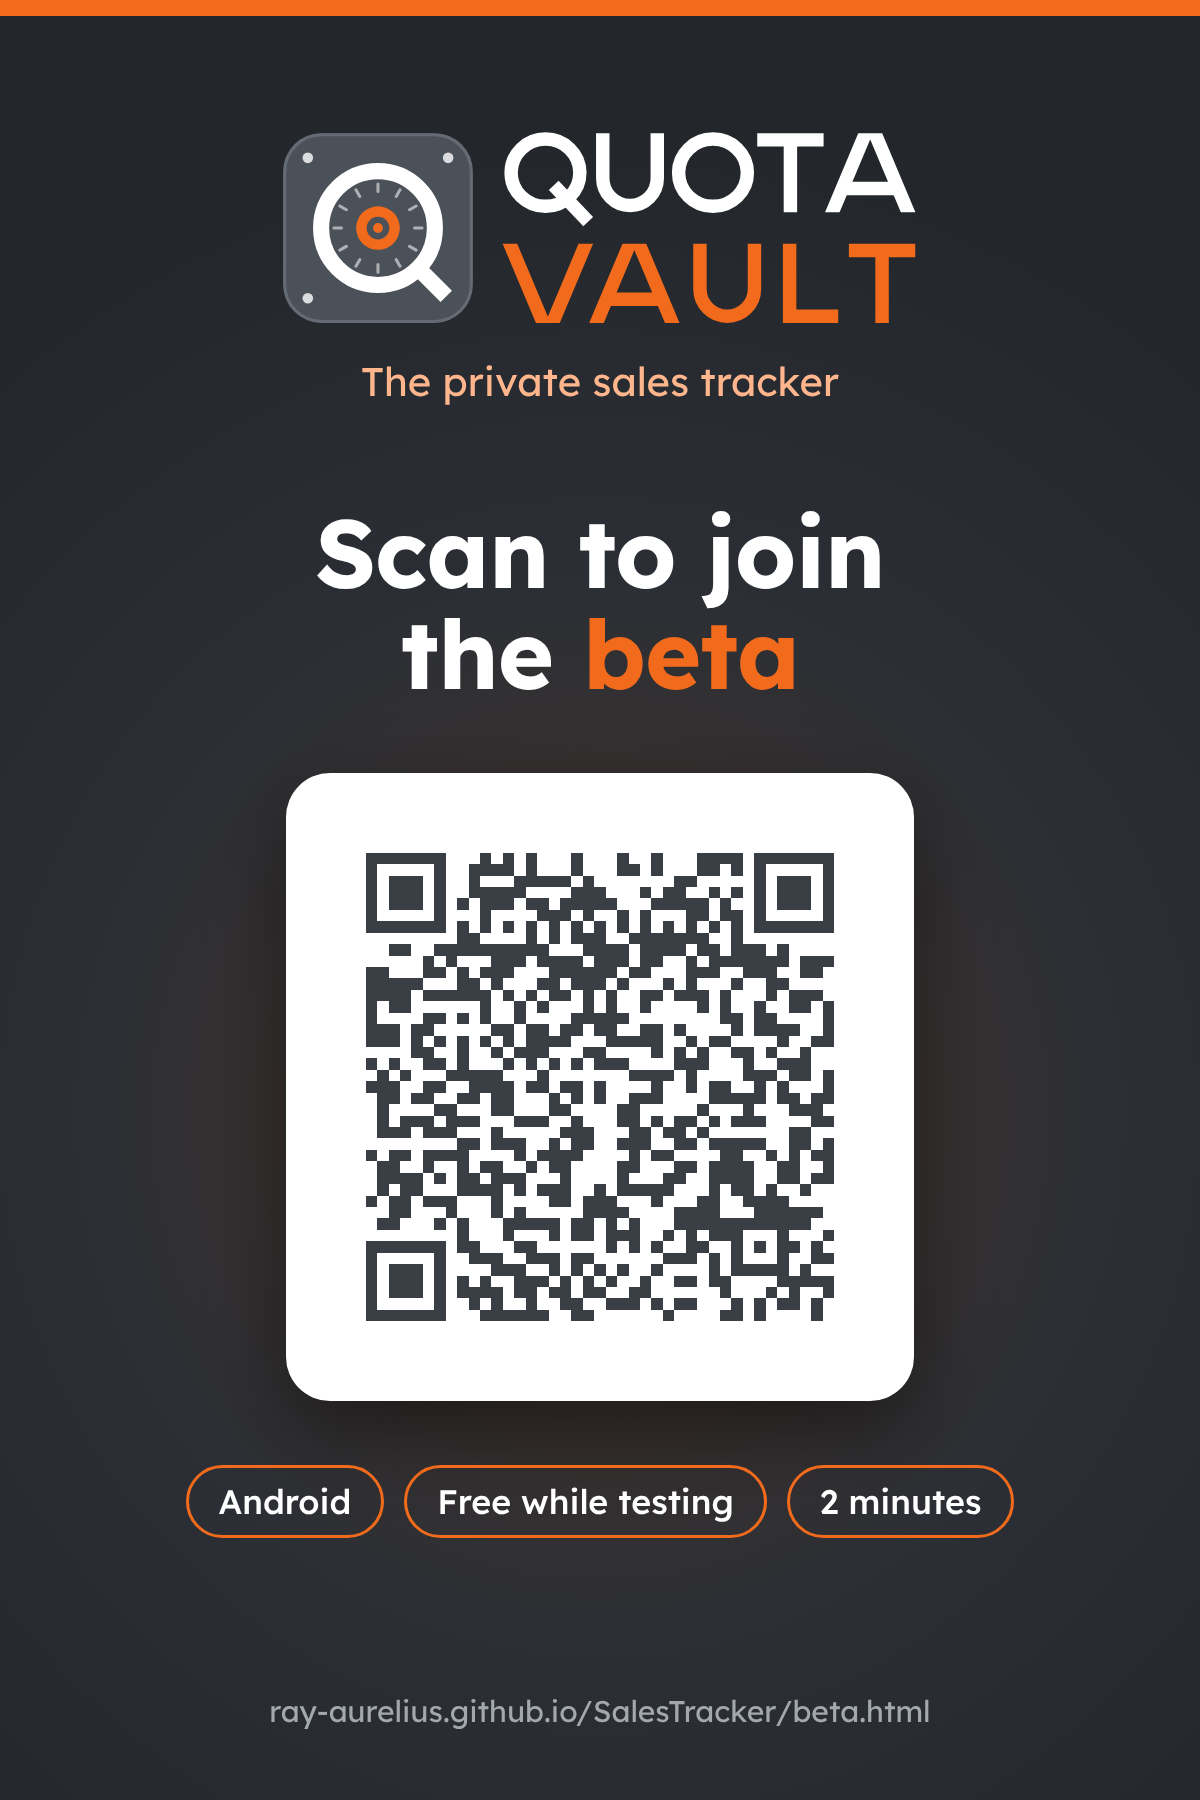
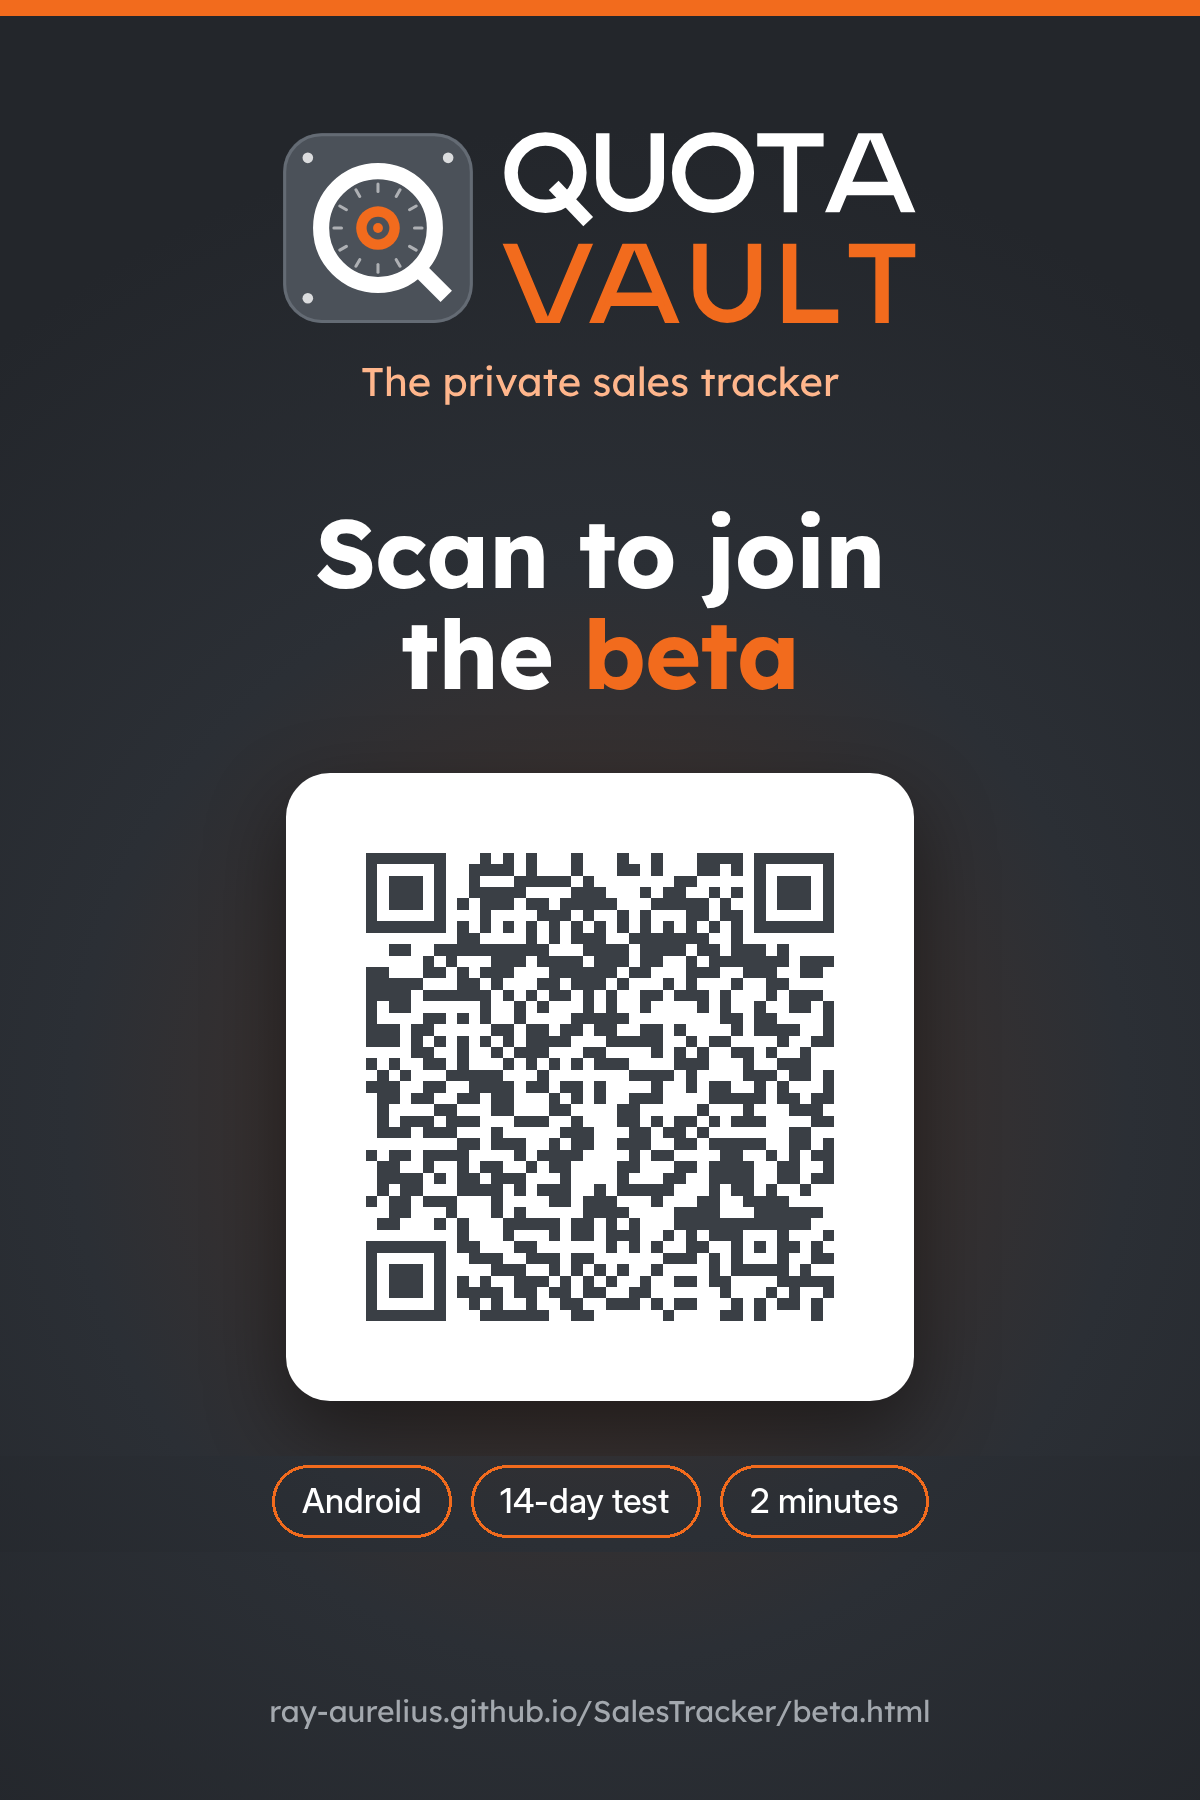
Beta page and QR card: testers pay a small price on Google Play (no longer 'free while testing')
Claude-Session: https://claude.ai/code/session_013fLhE5NWs9uEYnMEV2QD7t

Changed region(s): [[0.1542, 0.8089, 0.8325, 0.8711]]

diff --git a/docs/beta.html b/docs/beta.html
@@ -31,7 +31,8 @@ footer{margin-top:28px;font-size:.95rem;color:var(--muted)}
 </style>
 </head><body><main>
 <header><svg class="mark" aria-hidden="true" xmlns="http://www.w3.org/2000/svg" viewBox="0 0 240 240"><rect x="0" y="0" width="240" height="240" rx="48" fill="#3A3F45"/><circle cx="120" cy="120" r="72" fill="none" stroke="#FFFFFF" stroke-width="20.4"/><line x1="120" y1="64.2" x2="120" y2="73.8" stroke="#FFFFFF" stroke-width="3.84" stroke-linecap="round" opacity="0.55"/><line x1="147.9" y1="71.68" x2="143.1" y2="79.99" stroke="#FFFFFF" stroke-width="3.84" stroke-linecap="round" opacity="0.55"/><line x1="168.32" y1="92.1" x2="160.01" y2="96.9" stroke="#FFFFFF" stroke-width="3.84" stroke-linecap="round" opacity="0.55"/><line x1="175.8" y1="120" x2="166.2" y2="120" stroke="#FFFFFF" stroke-width="3.84" stroke-linecap="round" opacity="0.55"/><line x1="168.32" y1="147.9" x2="160.01" y2="143.1" stroke="#FFFFFF" stroke-width="3.84" stroke-linecap="round" opacity="0.55"/><line x1="147.9" y1="168.32" x2="143.1" y2="160.01" stroke="#FFFFFF" stroke-width="3.84" stroke-linecap="round" opacity="0.55"/><line x1="120" y1="175.8" x2="120" y2="166.2" stroke="#FFFFFF" stroke-width="3.84" stroke-linecap="round" opacity="0.55"/><line x1="92.1" y1="168.32" x2="96.9" y2="160.01" stroke="#FFFFFF" stroke-width="3.84" stroke-linecap="round" opacity="0.55"/><line x1="71.68" y1="147.9" x2="79.99" y2="143.1" stroke="#FFFFFF" stroke-width="3.84" stroke-linecap="round" opacity="0.55"/><line x1="64.2" y1="120" x2="73.8" y2="120" stroke="#FFFFFF" stroke-width="3.84" stroke-linecap="round" opacity="0.55"/><line x1="71.68" y1="92.1" x2="79.99" y2="96.9" stroke="#FFFFFF" stroke-width="3.84" stroke-linecap="round" opacity="0.55"/><line x1="92.1" y1="71.68" x2="96.9" y2="79.99" stroke="#FFFFFF" stroke-width="3.84" stroke-linecap="round" opacity="0.55"/><circle cx="120" cy="120" r="27.6" fill="#F26B1D"/><circle cx="120" cy="120" r="14.4" fill="#3A3F45"/><circle cx="120" cy="120" r="6.24" fill="#F26B1D"/><line x1="164.64" y1="164.64" x2="206.4" y2="206.4" stroke="#FFFFFF" stroke-width="20.4" stroke-linecap="butt"/><circle cx="31.2" cy="31.2" r="6.72" fill="#FFFFFF" opacity="0.8"/><circle cx="208.8" cy="31.2" r="6.72" fill="#FFFFFF" opacity="0.8"/><circle cx="31.2" cy="208.8" r="6.72" fill="#FFFFFF" opacity="0.8"/></svg><h1>Join the Quota Vault beta</h1></header>
-<p class="lead">Help test the private sales tracker before it launches on Google Play. It takes about two minutes, and it's free while you test.</p>
+<p class="lead">Help test the private sales tracker before it launches on Google Play. It takes about two minutes.</p>
+<p class="need">Google Play charges testers for paid apps, so installing has a small price, set at the lowest Google allows.</p>
 <p class="need">You need an Android phone and the Google account you use for the Play Store.</p>
 <ol>
 <li><h2>Join the tester group</h2>

diff --git a/branding/beta/card.html b/branding/beta/card.html
@@ -17,6 +17,6 @@ h1 em{font-style:normal;color:#F26B1D}
 <div class="tag">The private sales tracker</div>
 <h1>Scan to join<br>the <em>beta</em></h1>
 <div class="qr"><img src="QuotaVault-Beta-QR.svg" alt=""></div>
-<div class="chips"><div class="chip">Android</div><div class="chip">Free while testing</div><div class="chip">2 minutes</div></div>
+<div class="chips"><div class="chip">Android</div><div class="chip">14-day test</div><div class="chip">2 minutes</div></div>
 <div class="url">ray-aurelius.github.io/SalesTracker/beta.html</div>
 </body></html>
